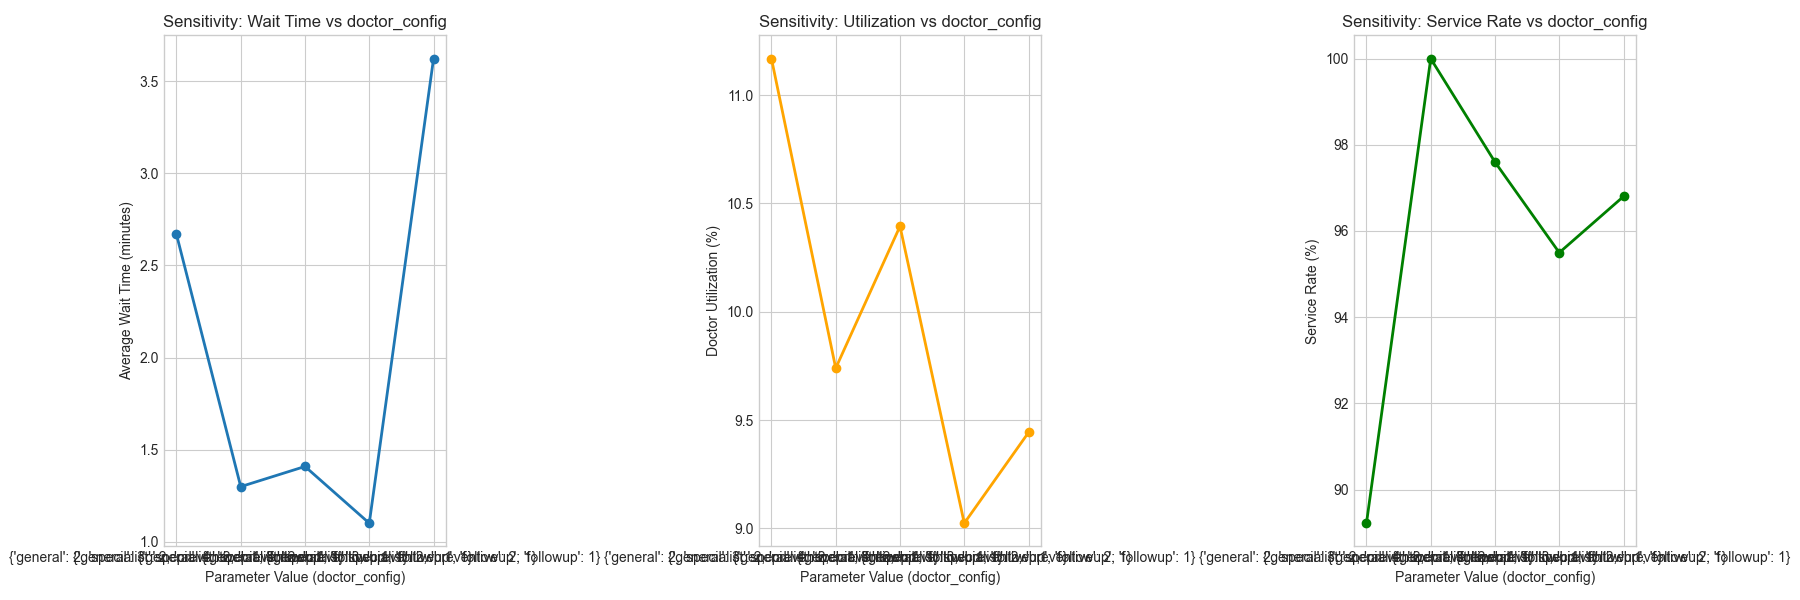
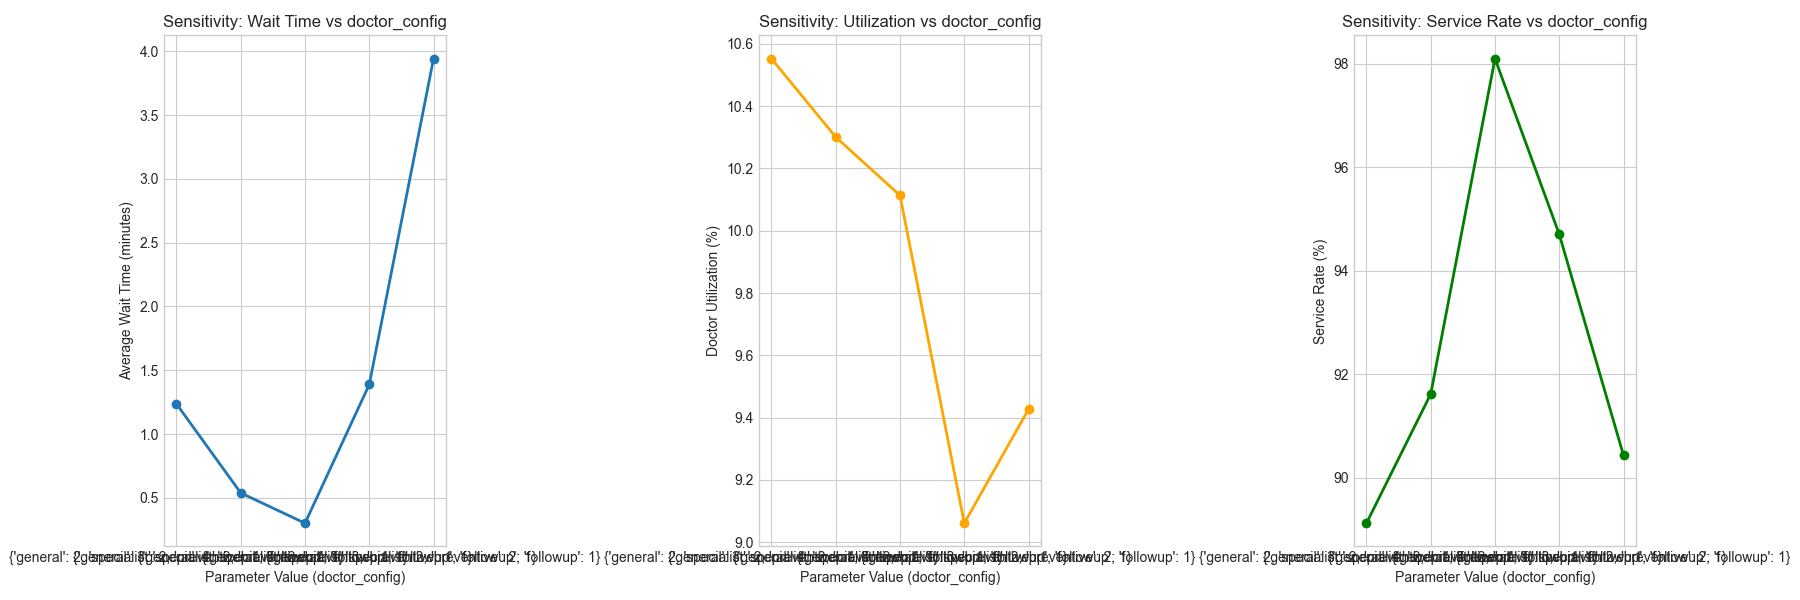
some code changes

diff --git a/clinic_reservation_enhanced.py b/clinic_reservation_enhanced.py
@@ -681,9 +681,6 @@ def main_enhanced():
             {"general": 2, "specialist": 2, "preventive": 1, "followup": 1},
             {"general": 3, "specialist": 2, "preventive": 1, "followup": 1},
             {"general": 4, "specialist": 2, "preventive": 1, "followup": 1},
-            {"general": 3, "specialist": 3, "preventive": 1, "followup": 1},  # Added configuration
-            {"general": 4, "specialist": 3, "preventive": 1, "followup": 1},  # Added configuration
-            {"general": 3, "specialist": 2, "preventive": 2, "followup": 1}   # Added configuration
             ],
         "scheduling_strategy": ["fifo", "priority", "type_based"],
         "mean_consult_times": [mean_consult_times],
